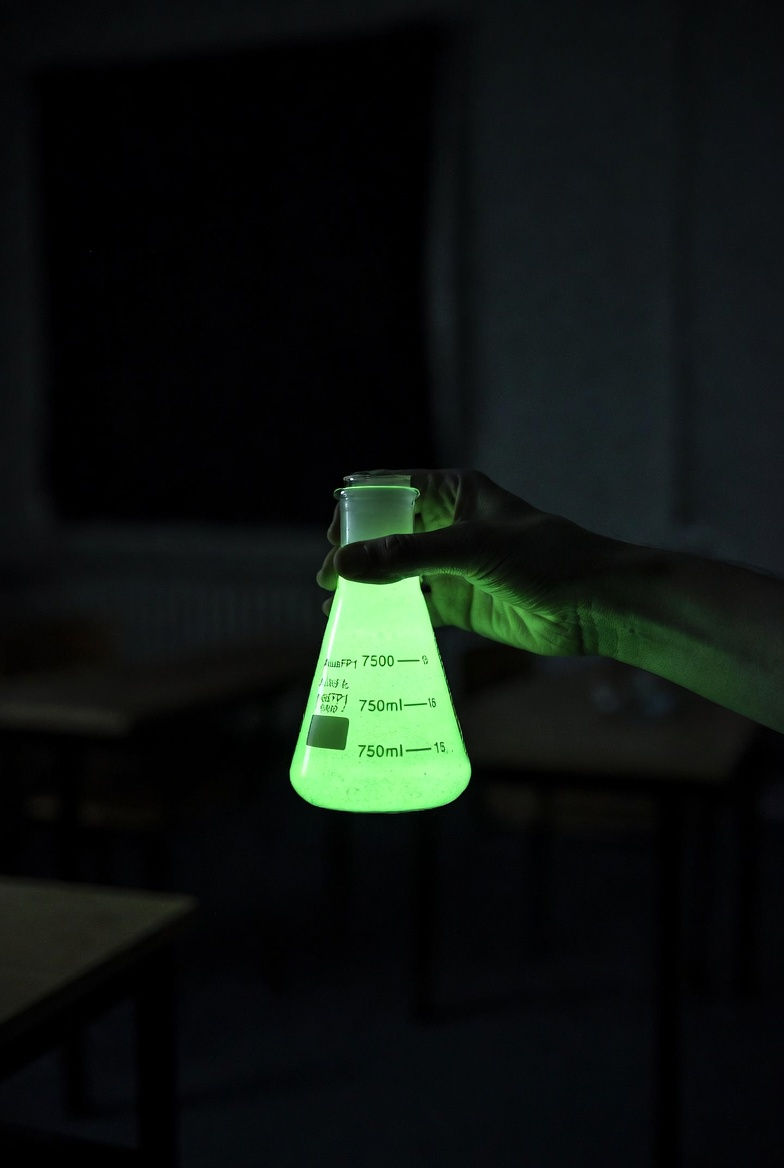
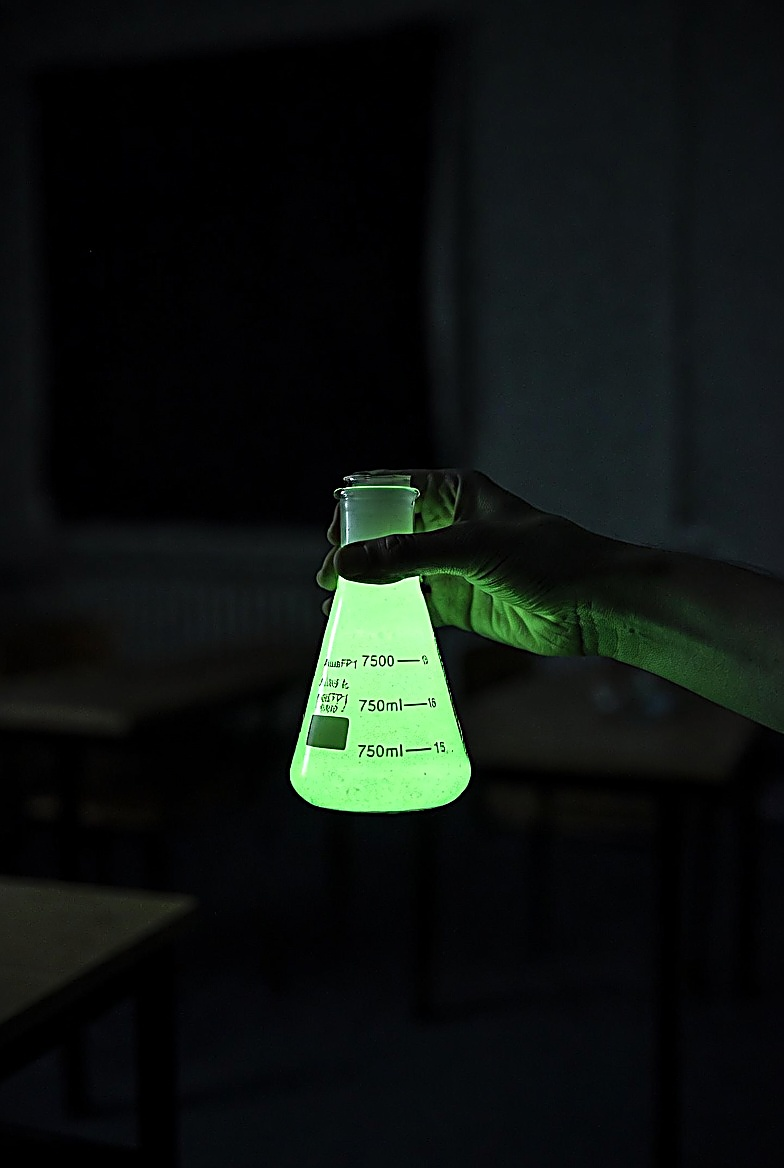
Add files via upload

Changed region(s): [[0.3673, 0.4007, 0.6122, 0.6781], [0.6122, 0.4932, 0.6429, 0.524]]

diff --git a/blog.html b/blog.html
@@ -1,0 +1,52 @@
+<!DOCTYPE html>
+<html lang="en">
+<head>
+<meta charset="UTF-8">
+<meta name="viewport" content="width=device-width, initial-scale=1.0">
+<title>Blog — Yeast Bioengineering Summer Bootcamp</title>
+<link rel="stylesheet" href="styles.css">
+</head>
+<body>
+
+<nav class="topnav">
+  <div class="brand">Yeast<span>Bio</span>Bootcamp</div>
+  <ul>
+    <li><a href="index.html">Home</a></li>
+    <li><a href="files.html">Files</a></li>
+    <li><a href="weblinks.html">Weblinks</a></li>
+    <li><a href="lectures.html">Lectures</a></li>
+    <li><a href="blog.html" class="active">Blog</a></li>
+  </ul>
+</nav>
+
+<main>
+  <div class="page-header">
+    <h1>Blog</h1>
+    <p>Recommended reading on fluorescent proteins from the Addgene blog.</p>
+  </div>
+
+  <section class="block">
+    <h2>// fluorescent protein reading</h2>
+    <div class="card-list">
+      <div class="card">
+        <div class="title">Fluorescent Proteins 101: When GFP lets you down <small>Addgene Blog — limitations of GFP (oxygen dependence, acid sensitivity, size) and alternative probes</small></div>
+        <a href="https://blog.addgene.org/when-gfp-lets-you-down" target="_blank" rel="noopener">Read →</a>
+      </div>
+      <div class="card">
+        <div class="title">FPbase: A new community-editable fluorescent protein database <small>Addgene Blog — introduction to FPbase.org for comparing and selecting fluorescent proteins</small></div>
+        <a href="https://blog.addgene.org/fpbase-a-new-community-editable-fluorescent-protein-database" target="_blank" rel="noopener">Read →</a>
+      </div>
+    </div>
+  </section>
+
+  <div class="callout">
+    Add or remove posts by editing the <code>card</code> blocks in blog.html.
+  </div>
+</main>
+
+<footer>
+  Yeast Bioengineering Summer Bootcamp — hosted on GitHub Pages
+</footer>
+
+</body>
+</html>

diff --git a/files.html b/files.html
@@ -15,6 +15,7 @@
     <li><a href="files.html" class="active">Files</a></li>
     <li><a href="weblinks.html">Weblinks</a></li>
     <li><a href="lectures.html">Lectures</a></li>
+    <li><a href="blog.html">Blog</a></li>
   </ul>
 </nav>
 

diff --git a/index.html b/index.html
@@ -15,6 +15,7 @@
     <li><a href="files.html">Files</a></li>
     <li><a href="weblinks.html">Weblinks</a></li>
     <li><a href="lectures.html">Lectures</a></li>
+    <li><a href="blog.html">Blog</a></li>
   </ul>
 </nav>
 

diff --git a/lectures.html b/lectures.html
@@ -15,6 +15,7 @@
     <li><a href="files.html">Files</a></li>
     <li><a href="weblinks.html">Weblinks</a></li>
     <li><a href="lectures.html" class="active">Lectures</a></li>
+    <li><a href="blog.html">Blog</a></li>
   </ul>
 </nav>
 

diff --git a/weblinks.html b/weblinks.html
@@ -15,6 +15,7 @@
     <li><a href="files.html">Files</a></li>
     <li><a href="weblinks.html" class="active">Weblinks</a></li>
     <li><a href="lectures.html">Lectures</a></li>
+    <li><a href="blog.html">Blog</a></li>
   </ul>
 </nav>
 